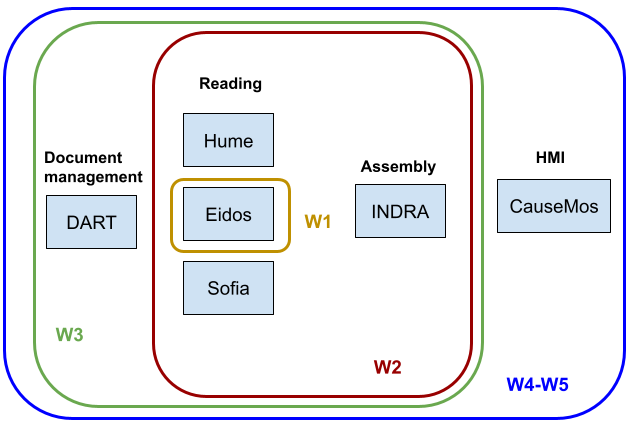
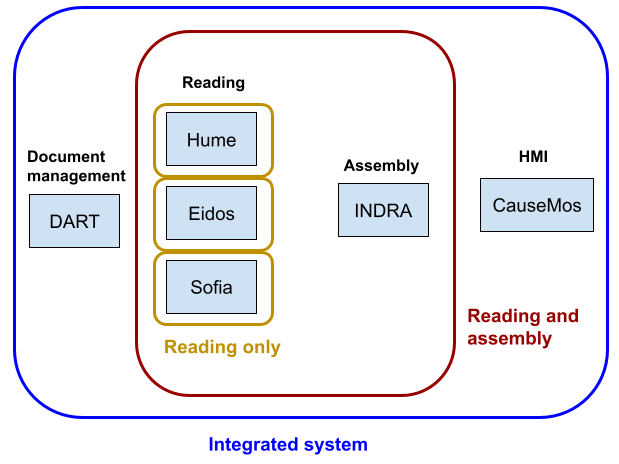
Further refactor workflows

diff --git a/reading-assembly.md b/reading-assembly.md
@@ -15,14 +15,15 @@ First, we describe running the full integrated system as a set of
 interconnected Docker containers. Once running, this integrated system
 allows for uploading documents through a web-based UI, having machine-reading
 systems process these documents, and then creating an assembled knowledge
-base that can be loaded into the CauseMos HMI. From the assembled knowledge
+base that can be loaded into the Causemos HMI. From the assembled knowledge
 base, individual projects can be initiated and maintained. Uploading new
 documents for a given project is also supported, with new causal knowledge
 extracted from the documents incrementally added to the project.
 
 In addition to the integrated system, we also document and provide
 tutorials for running component technologies in simpler, more limited
-workflows (W1-3). These workflows can be useful for prototyping changes
+workflows: "Reading only" and "Reading and assembly".
+These workflows can be useful for prototyping changes
 to component technologies before moving onto full integration, or for
 situations where only a subset of component systems are needed.
 
@@ -44,7 +45,13 @@ their own use cases.
   for processing, and then examining the resulting causal knowledge
   base extracted and assembled from these documents.
 
-- [Reading and knowledge assembly tutorial](reading-assembly/w2_tutorial.html#w2)
+- [Reading only tutorial](reading-assembly/reading_tutorial.html)
+
+  In this tutorial, we provide a step-by-step example of running the
+  Hume reader on a set of documents to produce output in JSON-LD format
+  that can be used for downstream analysis.
+
+- [Reading and assembly tutorial](reading-assembly/reading_assembly_tutorial.html)
 
   In this tutorial, we provide a step-by-step example of running
   a machine reading system on a set of sample documents and then running
@@ -52,10 +59,29 @@ their own use cases.
 
 ## Running the integrated system
 
+This workflow builds on enables users to add their own documents during runtime
+through Causemos. This requires DART, one or more readers, and INDRA World to 
+be running as services.
+
+In this integrate workflow, the DART system is used for managing documents and using a 
+standardized interface between DART and the reading systems. This avoids having 
+to manually prepare input files for reading. DART also makes available
+a UI for interactive ontology management and extension. Reader output
+is integrated and assembled (through a set of normalization, processing and
+filtering steps) by INDRA World. Finally, the assembled knowledge base
+from INDRA World can be loaded into Causemos for exploration. Causemos
+also allows uploading new documents and incrementally adding them to the
+causal knowledgebase during runtime.
+
+Systems used:
+* Document and ontology management: [DART](reading-assembly/dart.html#w5)
+* Readers: [Eidos](reading-assembly/eidos.html#w5), [HUME](reading-assembly/hume.html#w5), [Sofia](reading-assembly/sofia.html#w5)
+* Integration/assembly: [INDRA](reading-assembly/indra.html#w5)
+* HMI: [Causemos](reading-assembly/causemos.html#w5)
 
 ## Sub-system workflows
 <a id="w1"></a>
-### W1. Reading only
+### Reading only
 
 Machine-reading systems can be run independent of the integrated 
 World Modelers system. In this case, users are responsible for preparing
@@ -70,7 +96,7 @@ system in a reading-only workflow:
   * [Sofia](reading-assembly/sofia.html#w1)
 
 <a id="w2"></a>
-### W2. Reading + integration/assembly
+### Reading + integration/assembly
 
 Running multiple reading systems on the same set of documents can provide
 increased coverage and - through exploiting redundancy - a more reliable
@@ -84,36 +110,6 @@ Systems used:
   * Readers: one or more of [Eidos](reading-assembly/eidos.html#w2), [HUME](reading-assembly/hume.html#w2), or [Sofia](reading-assembly/sofia.html#w2)
   * Integration/assembly: [INDRA](reading-assembly/indra.html#w2)
 
-A step-by-step tutorial
-
-<a id="w3"></a>
-### W3. Document management + reading + integration/assembly
-In this usage mode, the DART system is used for managing documents and using a standardized interface between DART and the reading systems. This avoids having to manually prepare input files for reading. The rest of the workflow follows W2 in that INDRA is used for integration. The user then takes INDRA Statements for further downstream analysis.
-
-Systems used:
-  * Document management: [DART](reading-assembly/dart.html#w3)
-  * Readers: [Eidos](reading-assembly/eidos.html#w3), [HUME](reading-assembly/hume.html#w3), [Sofia](reading-assembly/sofia.html#w3)
-  * Integration/assembly: [INDRA](reading-assembly/indra.html#w3)
-
-<a id="w4"></a>
-### W4. Document management + reading + integration/assembly + HMI
-This usage mode goes beyond W2 or W3 by loading INDRA outputs into Causemos to explore, curate, and derive models from the assembled causal information. However, in this setting, the user is not expecting a service architecture to support incremental reading/assembly during runtime. The usage of DART is technically not required for W4 but it allows linking back to documents and examining their metadata which is advantageous. This workflow can be understood as a one-time run of W2/W3 and then loading results into the HMI as a “static” corpus.
-
-Systems used:
-  * Document management: [DART](reading-assembly/dart.html#w4)
-  * Readers: [Eidos](reading-assembly/eidos.html#w4), [HUME](reading-assembly/hume.html#w4), [Sofia](reading-assembly/sofia.html#w4)
-  * Integration/assembly: [INDRA](reading-assembly/indra.html#w4)
-  * HMI: [Causemos](reading-assembly/causemos.html#w4)
-
-<a id="w5"></a>
-### W5. Document management + reading + integration/assembly + HMI + BYOD
-This workflow builds on W4 and also enables users to add their own documents during runtime through Causemos. This requires DART, one or more readers, and INDRA World to be running as services.
-
-Systems used:
-  * Document management: [DART](reading-assembly/dart.html#w5)
-  * Readers: [Eidos](reading-assembly/eidos.html#w5), [HUME](reading-assembly/hume.html#w5), [Sofia](reading-assembly/sofia.html#w5)
-  * Integration/assembly: [INDRA](reading-assembly/indra.html#w5)
-  * HMI: [Causemos](reading-assembly/causemos.html#w5)
 
 ## Component-specific documentation
 
@@ -122,19 +118,19 @@ Systems used:
 
     Eidos is the machine reading system developed by the CLU lab at University of Arizona.
   
-    Workflows: ([W1](reading-assembly/eidos.html#w1), [W2](reading-assembly/eidos.html#w2), [W3](reading-assembly/eidos.html#w3), [W4](reading-assembly/eidos.html#w4), [W5](reading-assembly/eidos.html#w5))
+    Workflows: ([Reading only](reading-assembly/eidos.html#w1), [Reading and assembly](reading-assembly/eidos.html#w2), [Integrated](reading-assembly/eidos.html#w5))
 
   * [HUME](reading-assembly/hume.html)
   
     Hume is BBN's machine reading system that extracts causal relations from text and supports clustering for ontology construction.
     
-    Workflows: ([W1](reading-assembly/hume.html#w1), [W2](reading-assembly/hume.html#w2), [W3](reading-assembly/hume.html#w3), [W4](reading-assembly/hume.html#w4), [W5](reading-assembly/hume.html#w5))
+    Workflows: ([Reading only](reading-assembly/hume.html#w1), [Reading and assembly](reading-assembly/hume.html#w2), [Integrated](reading-assembly/hume.html#w5))
 
   * [Sofia](reading-assembly/sofia.html)
 
     Sofia is a machine reading system developed at CMU that extracts causal relations from text.
   
-    Workflows: ([W1](reading-assembly/sofia.html#w1), [W2](reading-assembly/sofia.html#w2), [W3](reading-assembly/sofia.html#w3), [W4](reading-assembly/sofia.html#w4), [W5](reading-assembly/sofia.html#w5))
+    Workflows: ([Reading only](reading-assembly/sofia.html#w1), [Reading and assembly](reading-assembly/sofia.html#w2), [Integrated](reading-assembly/sofia.html#w5))
 
 * Integration/assembly
   * [Indra World](reading-assembly/indra.html)
@@ -143,18 +139,18 @@ Systems used:
     standardizes their representation, finds ontological relationships between relations, calculates overall confidence,
     and has a configurable pipeline to process and filter causal knowledge.
   
-    Workflows: ([W2](reading-assembly/indra.html#w2), [W3](reading-assembly/indra.html#w3), [W4](reading-assembly/indra.html#w4), [W5](reading-assembly/indra.html#w5))
+    Workflows: ([Reading and assembly](reading-assembly/indra.html#w2), [Integrated](reading-assembly/indra.html#w5))
 
 * Document management
   * [DART](reading-assembly/dart.html)
   
     The Data Analytics and Reasoning Toolkit (DART) is the data ingestion pipeline for the World Modelers platform.
     
-    Workflows: ([W3](reading-assembly/dart.html#w3), [W4](reading-assembly/dart.html#w4), [W5](reading-assembly/dart.html#w5))
+    Workflows: ([Integrated](reading-assembly/dart.html#w5))
 
 * HMI (Human-Machine Interface)
   * [Causemos](reading-assembly/causemos.html)
   
     Causemos is the main HMI for the World Modelers program, built and maintained by Uncharted Software.
   
-    Workflows: ([W4](reading-assembly/causemos.html#w4), [W5](reading-assembly/causemos.html#w5))
+    Workflows: ([Integrated](reading-assembly/causemos.html#w5))
